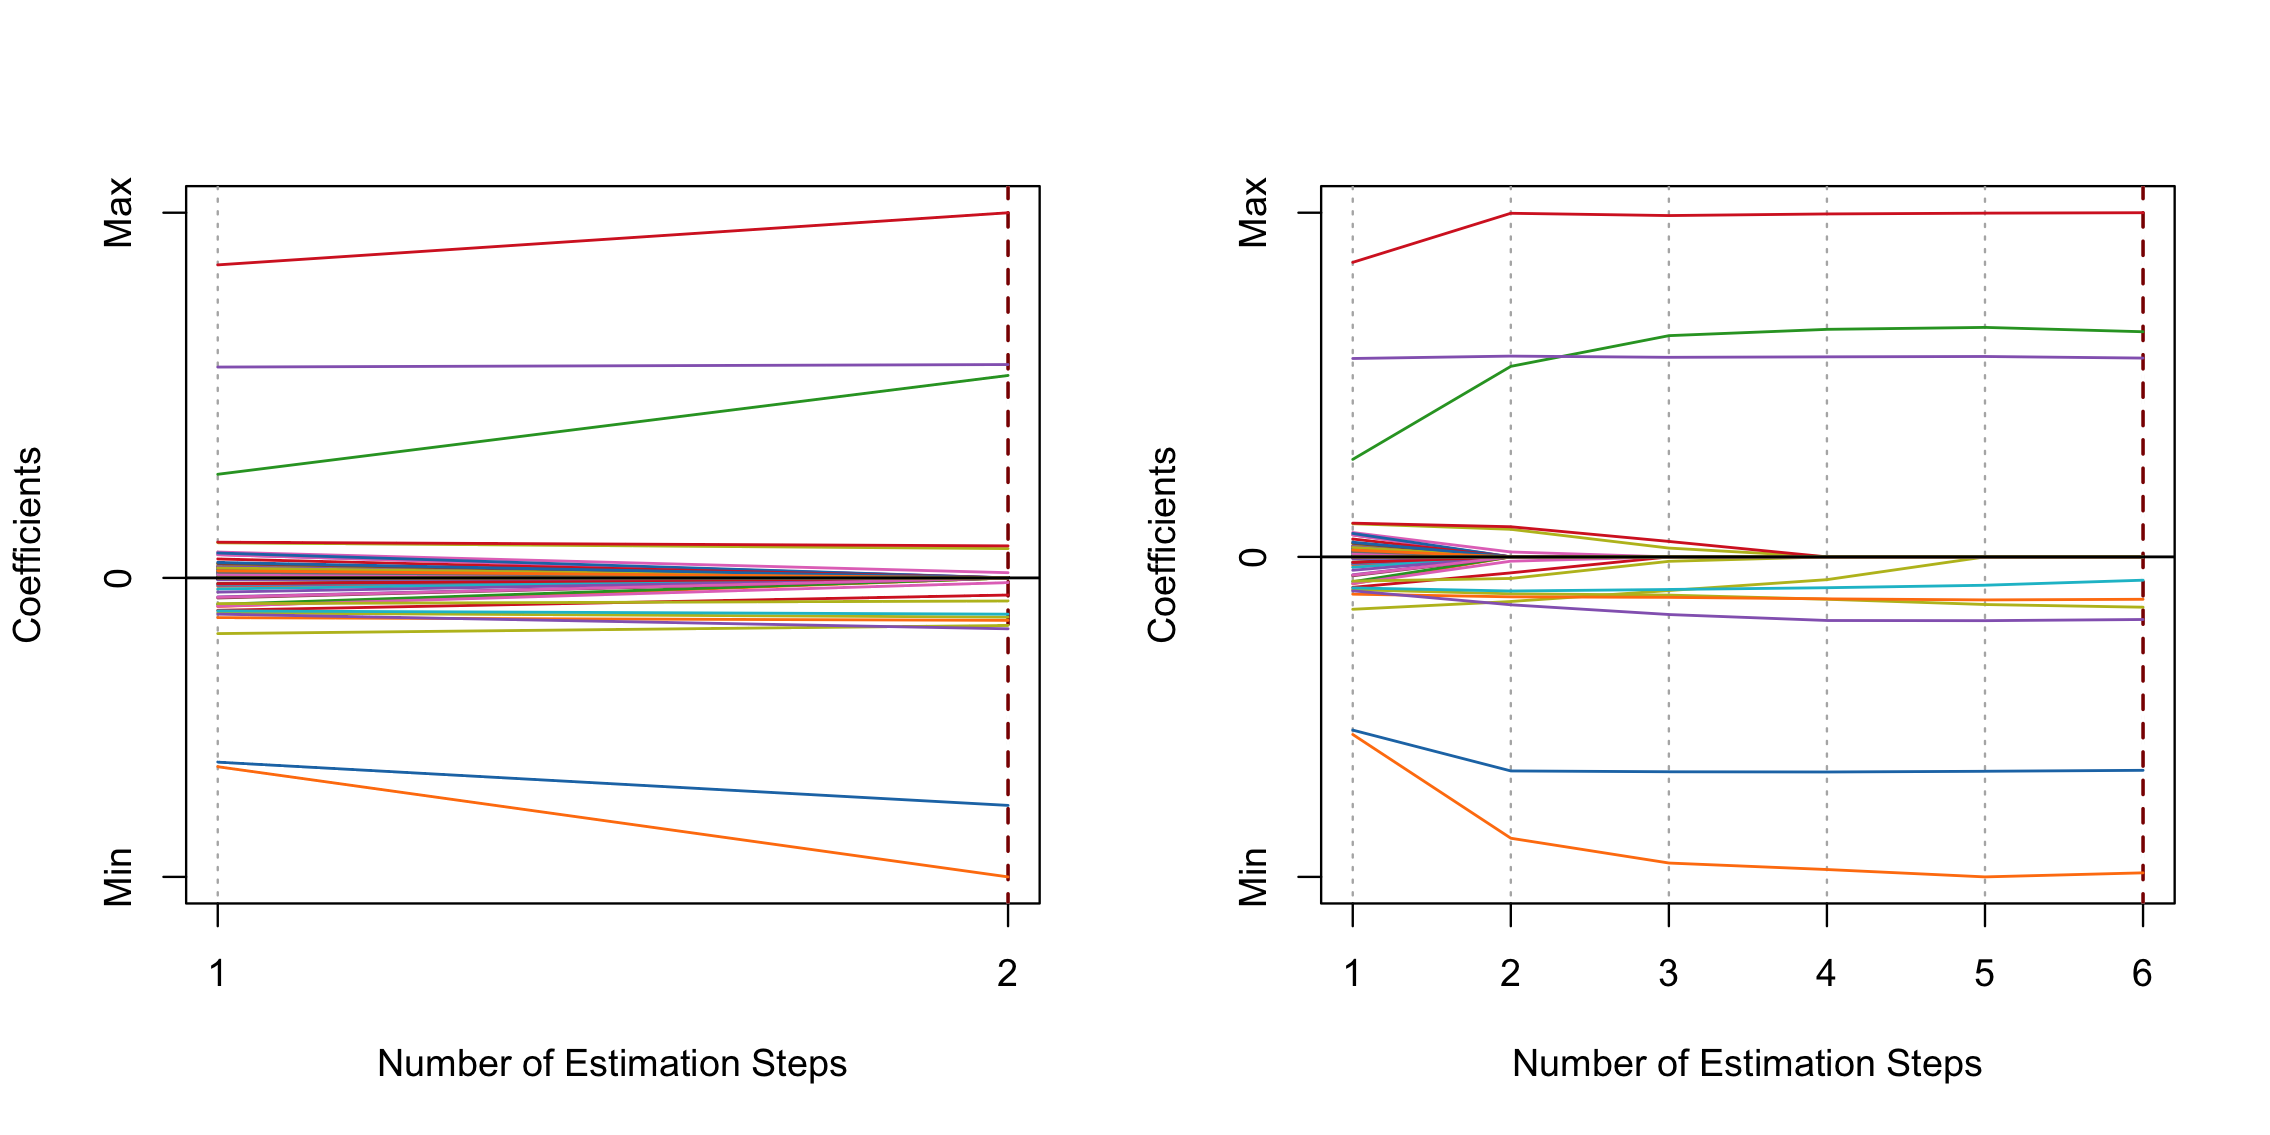
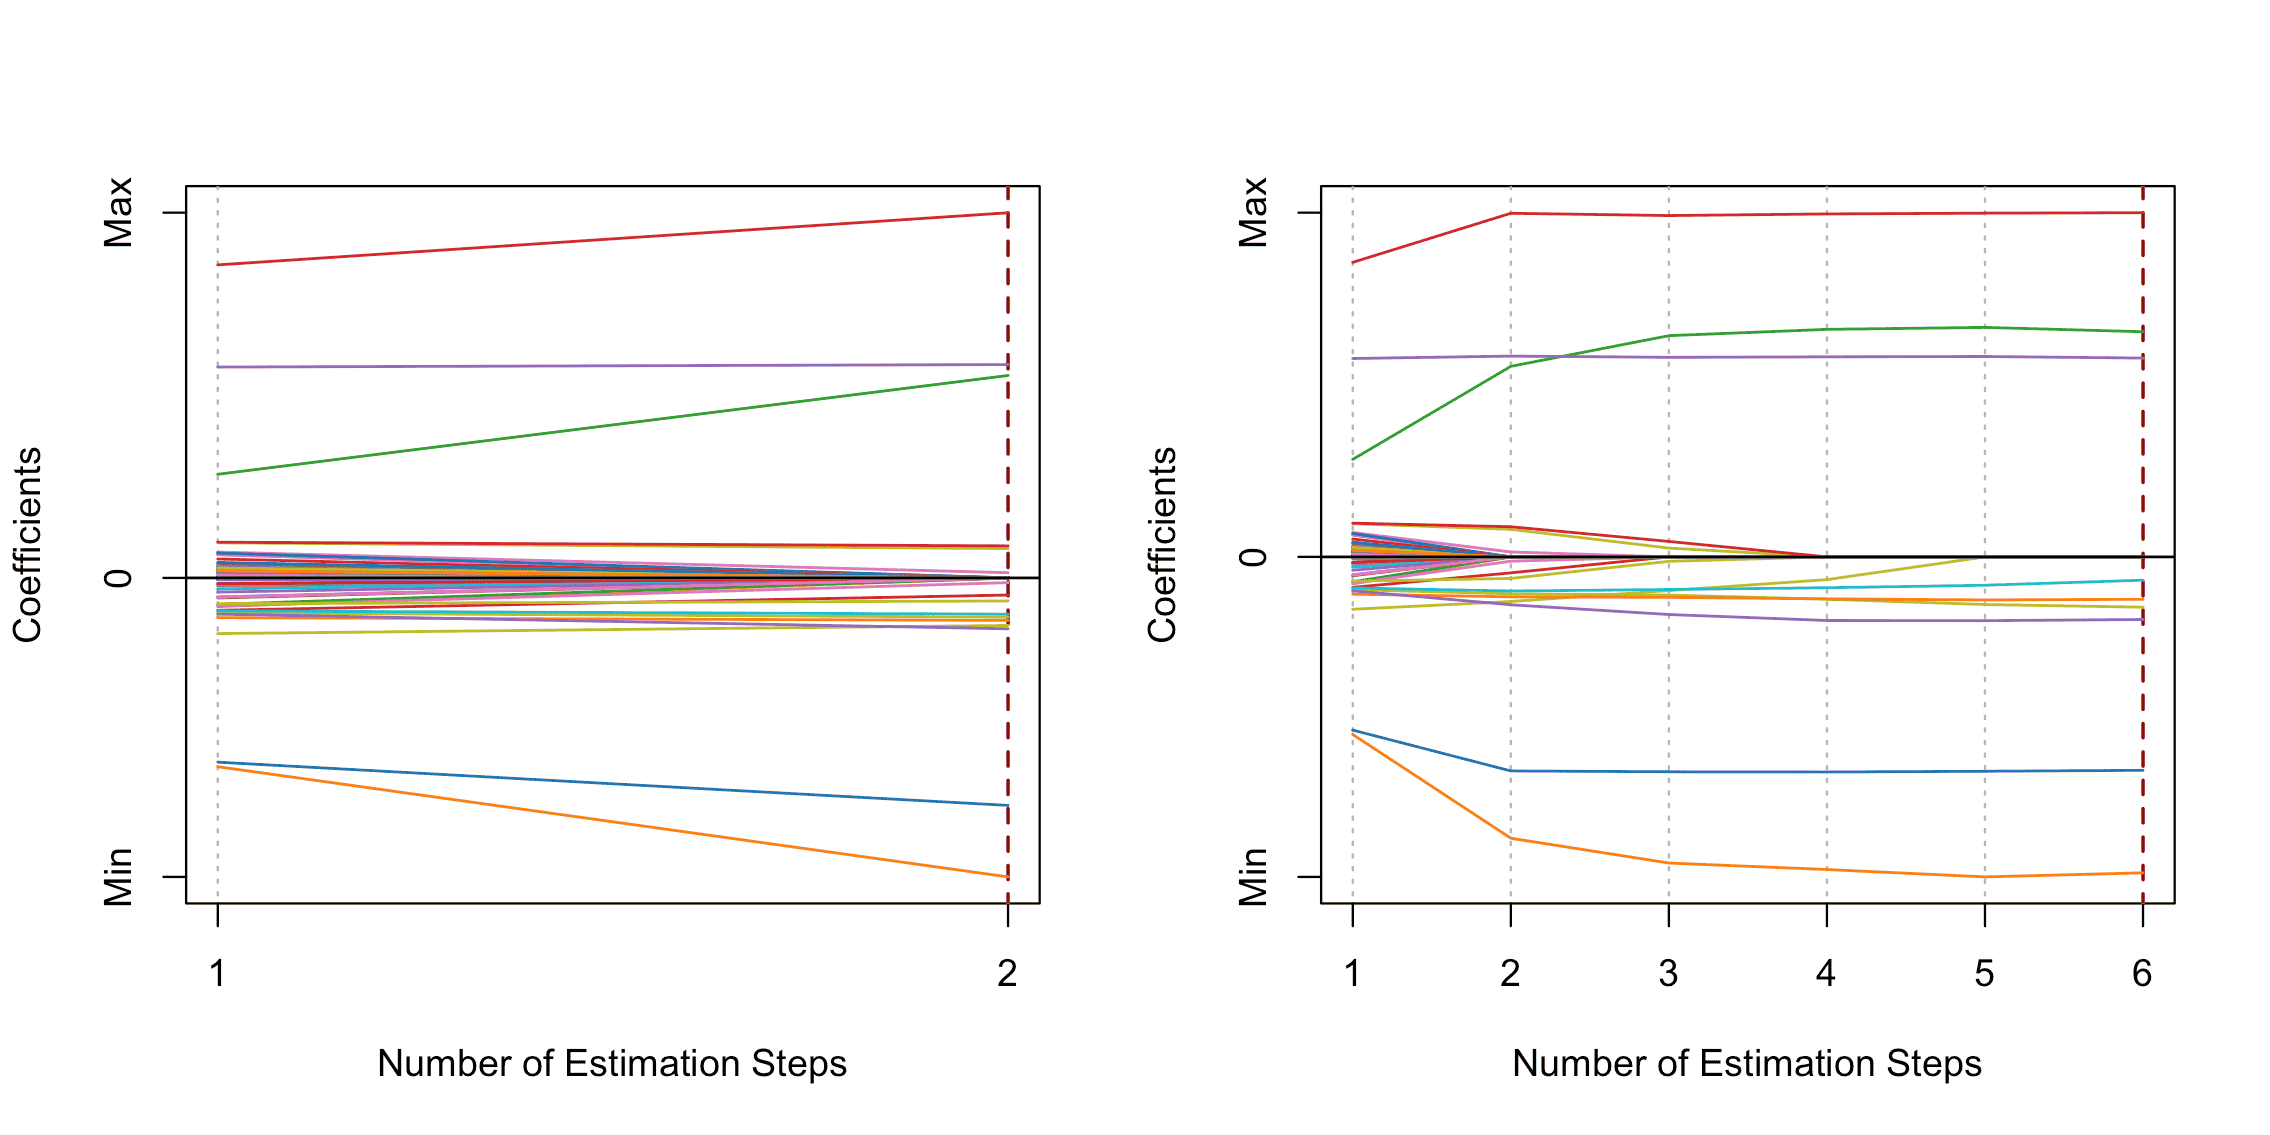
Use pngquant to further reduce output size

diff --git a/README.md b/README.md
@@ -5,7 +5,7 @@
 
 <!-- badges: start -->
 
-[![R-CMD-check](https://github.com/nanxstats/msaenet/workflows/R-CMD-check/badge.svg)](https://github.com/nanxstats/msaenet/actions)
+[![R-CMD-check](https://github.com/nanxstats/msaenet/actions/workflows/R-CMD-check.yaml/badge.svg)](https://github.com/nanxstats/msaenet/actions/workflows/R-CMD-check.yaml)
 [![CRAN
 Version](https://www.r-pkg.org/badges/version/msaenet)](https://cran.r-project.org/package=msaenet)
 [![Downloads from the RStudio CRAN
